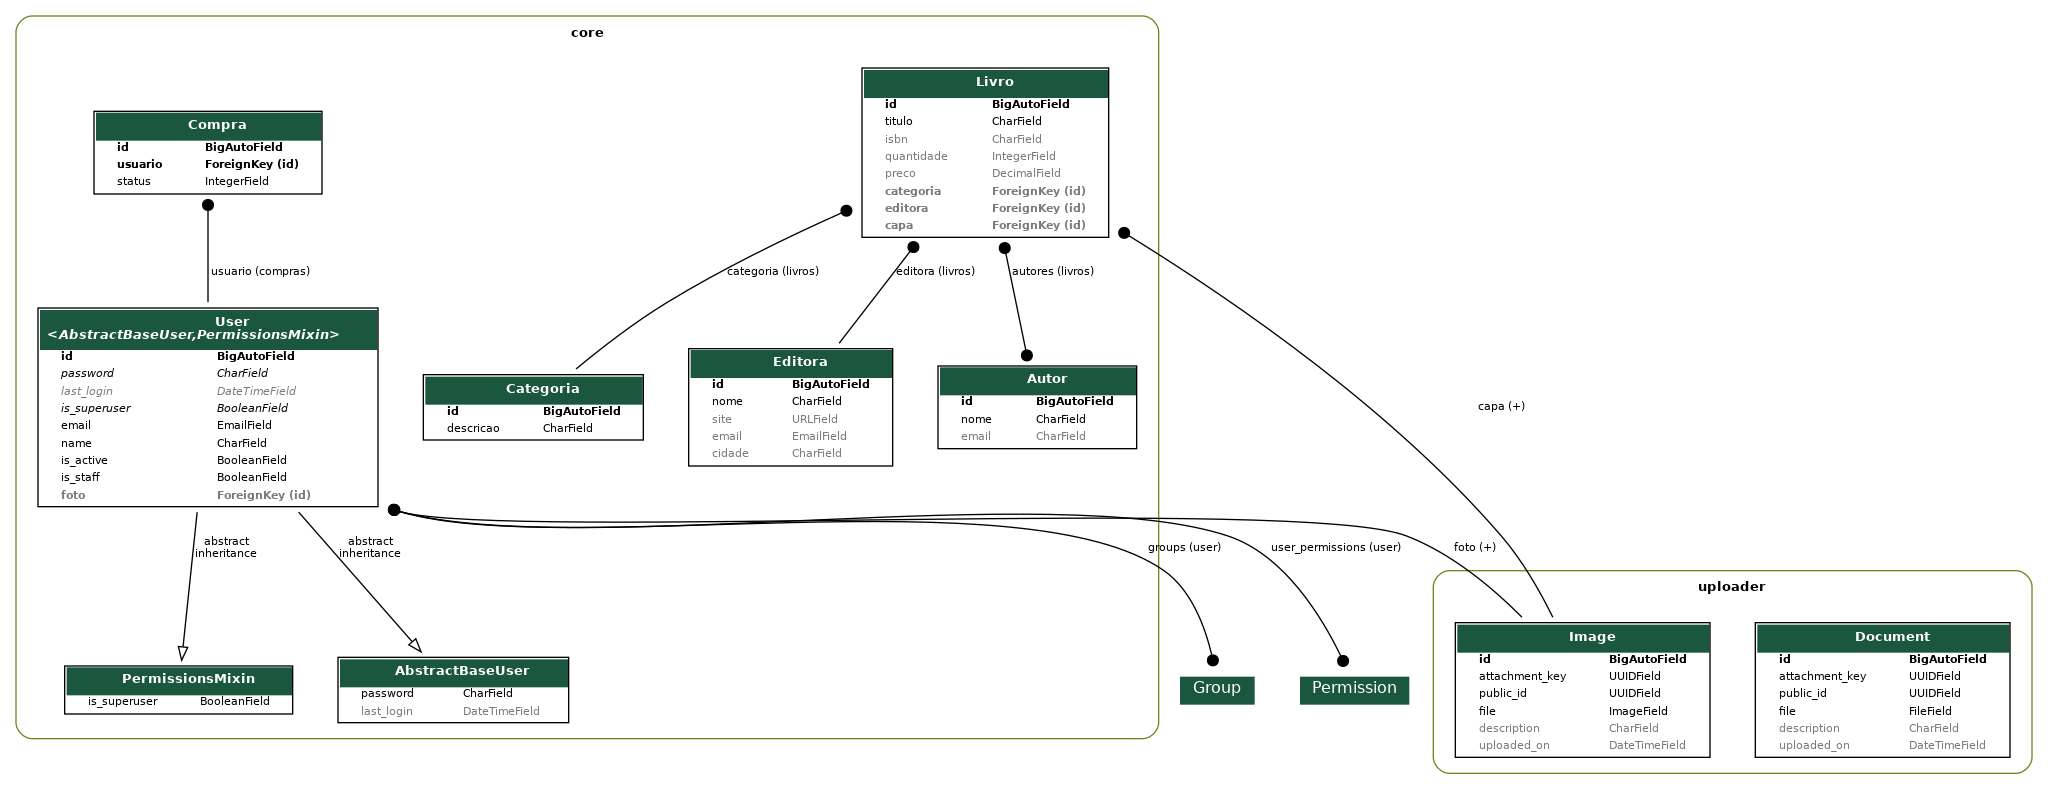
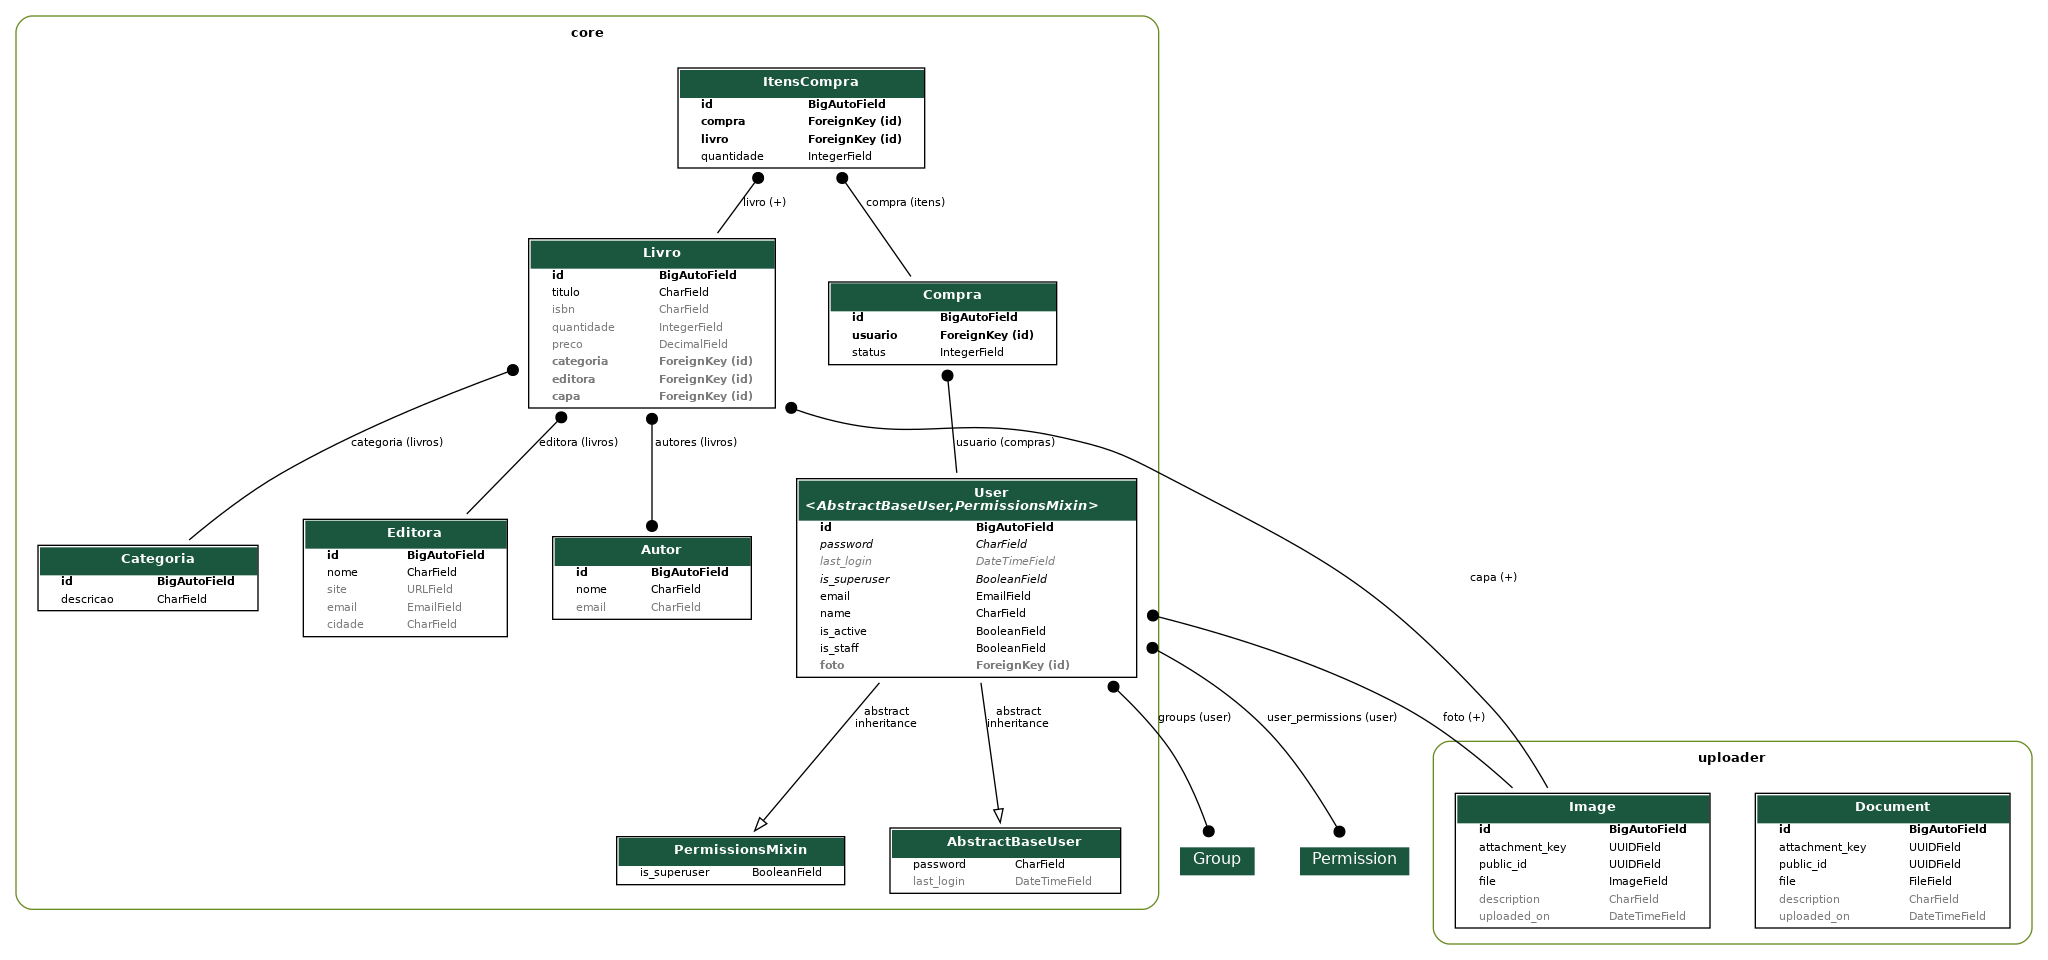
realização do migrate

diff --git a/core/migrations/0019_itenscompra.py b/core/migrations/0019_itenscompra.py
@@ -1,0 +1,31 @@
+# Generated by Django 5.1 on 2024-09-09 17:58
+
+import django.db.models.deletion
+from django.db import migrations, models
+
+
+class Migration(migrations.Migration):
+
+    dependencies = [
+        ("core", "0018_compra"),
+    ]
+
+    operations = [
+        migrations.CreateModel(
+            name="ItensCompra",
+            fields=[
+                ("id", models.BigAutoField(auto_created=True, primary_key=True, serialize=False, verbose_name="ID")),
+                ("quantidade", models.IntegerField(default=1)),
+                (
+                    "compra",
+                    models.ForeignKey(
+                        on_delete=django.db.models.deletion.CASCADE, related_name="itens", to="core.compra"
+                    ),
+                ),
+                (
+                    "livro",
+                    models.ForeignKey(on_delete=django.db.models.deletion.PROTECT, related_name="+", to="core.livro"),
+                ),
+            ],
+        ),
+    ]
